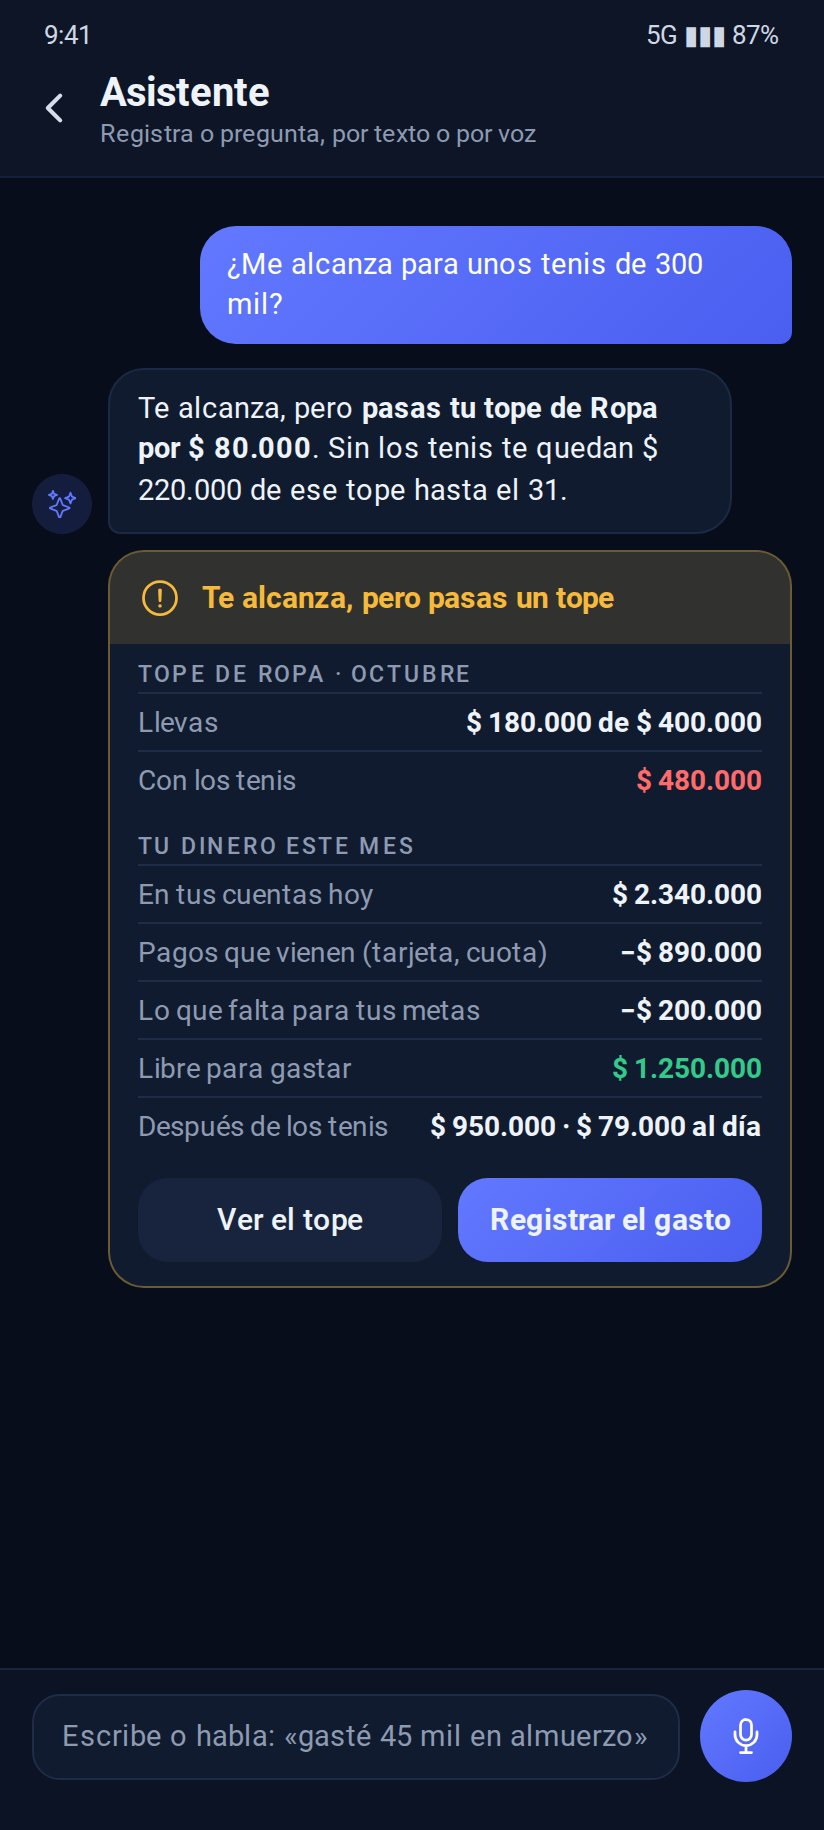
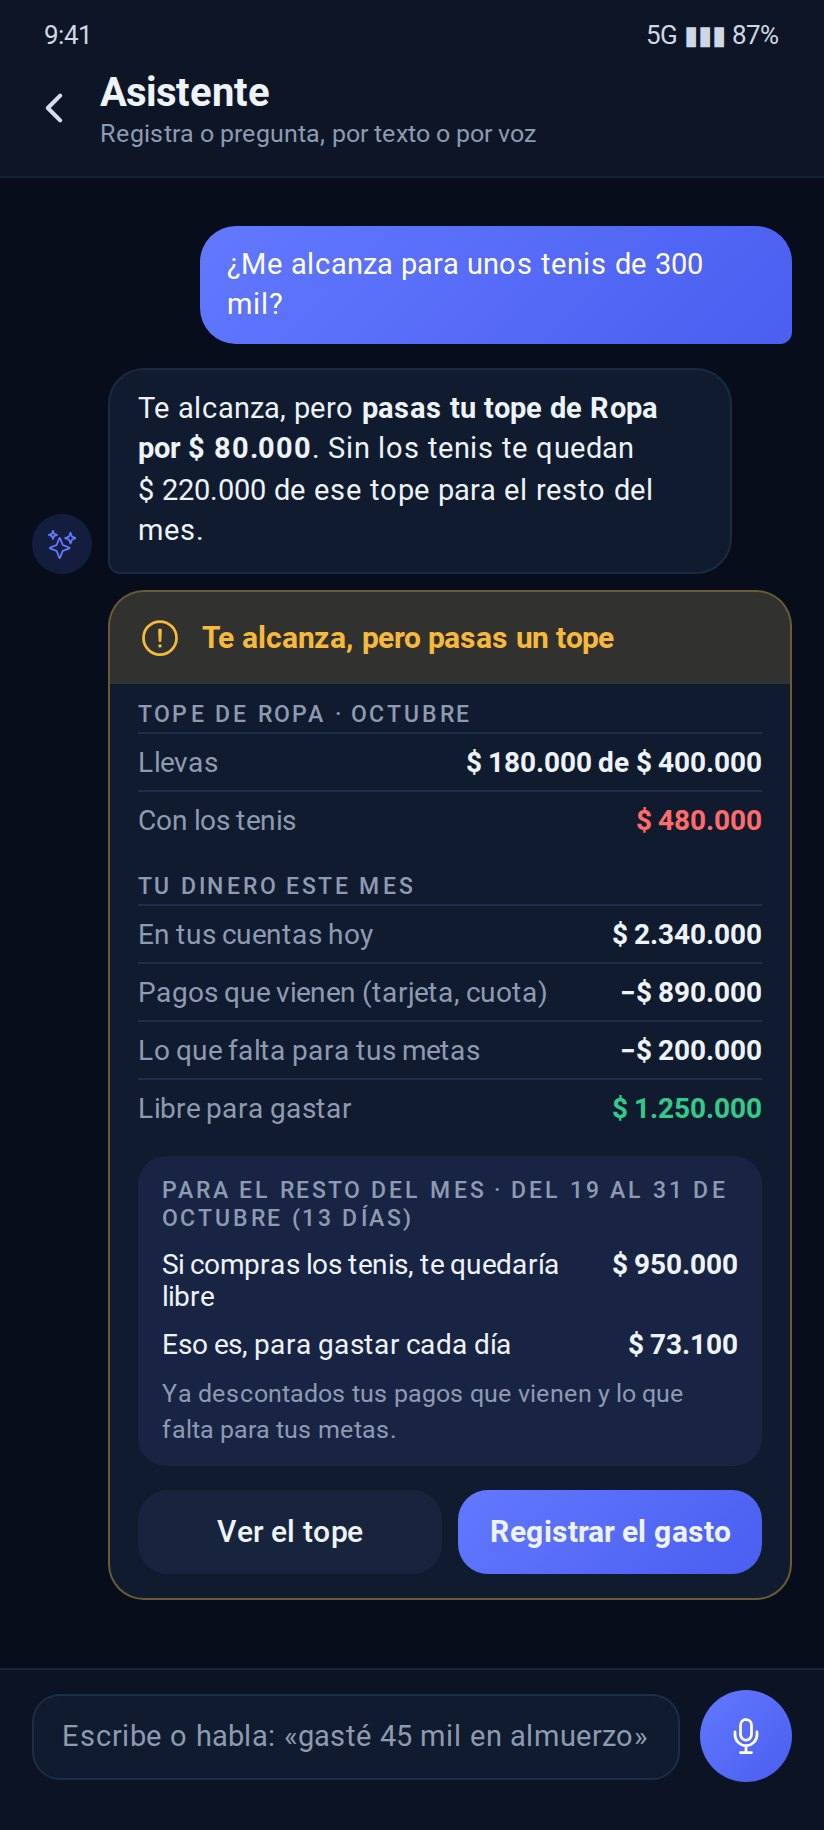
Mockups 39: say what stays free for the rest of the month and per day
Claude-Session: https://claude.ai/code/session_01QyUqFix1SMdsKVBtd1Wz88

Changed region(s): [[0.0303, 0.2492, 0.9709, 0.8721]]

diff --git a/CLAUDE.md b/CLAUDE.md
@@ -5252,6 +5252,11 @@ with testers runs; the paywall is finished after them.
     cuenta tiene 3", "Cambiar"), never a question; a product named in the
     sentence ("del bolsillo viajes") is taken - and the account it belongs
     to.
+- **What stays free is always said whole** (Jose, 2026-10-19: "$ 650.000 ·
+  $ 54.000 al día" did not say what it was): "Para el resto del mes · del 19
+  al 31 de octubre (13 días)", then what would stay free and "Eso es, para
+  gastar cada día", with "Ya descontados tus pagos que vienen y lo que falta
+  para tus metas" under it. Never a bare "X · Y al día". The days count today.
 - **Voice**: the phone's own dictation into the same reader (`39h`).
   Assumed, not verified: offline only with the Spanish pack downloaded; on
   many phones the audio goes through Google - to say in the privacy policy.
